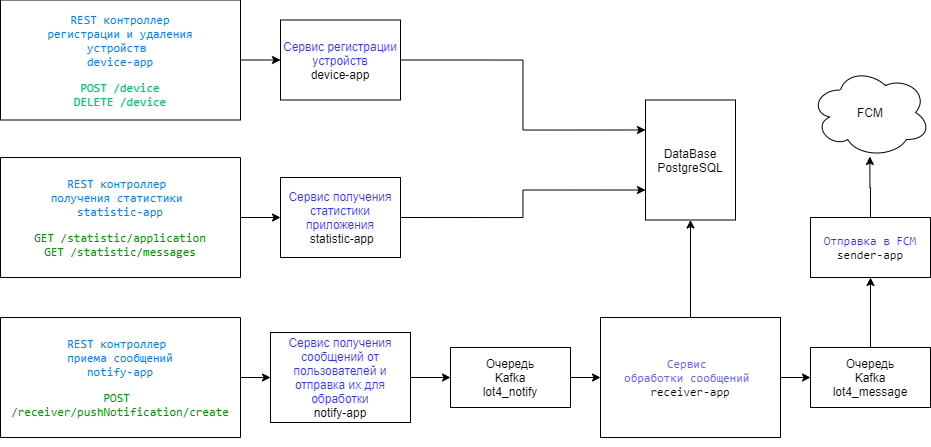
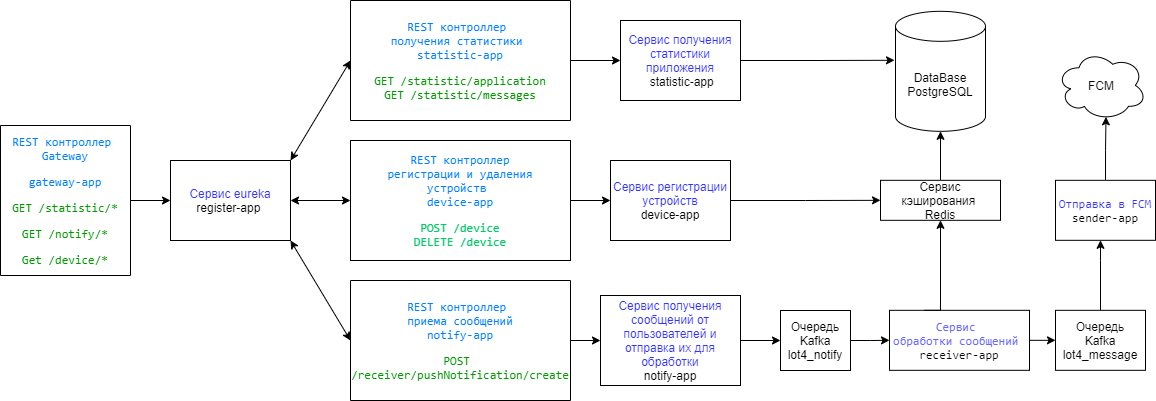
new diagram

diff --git a/Readme.md b/Readme.md
@@ -11,7 +11,7 @@
 - [Получение статистики](statistic-app/Readme.md)
 - [Web-интерфейс](front-app/README.md)
 
-![Схема](doc/diag_redis.png)
+![Схема](doc/diag.png)
 
 ### Сборка
 
